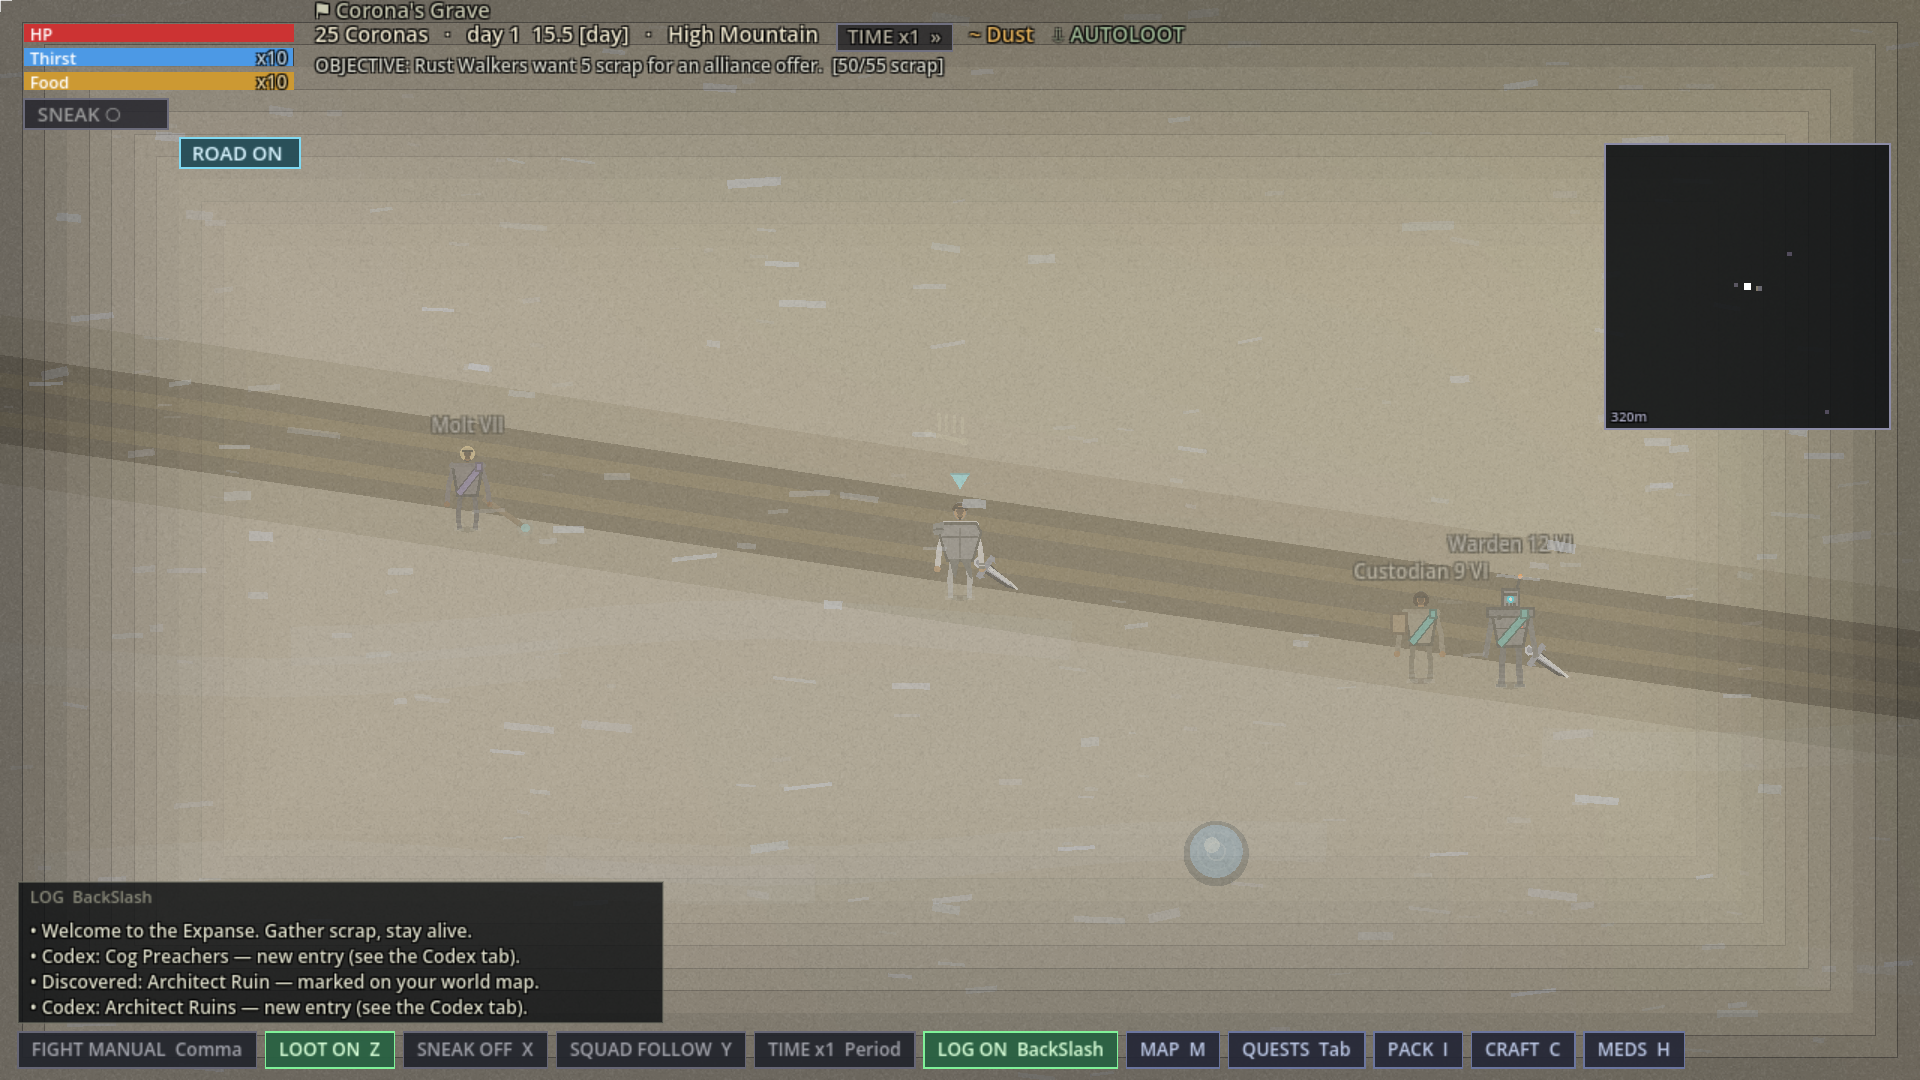
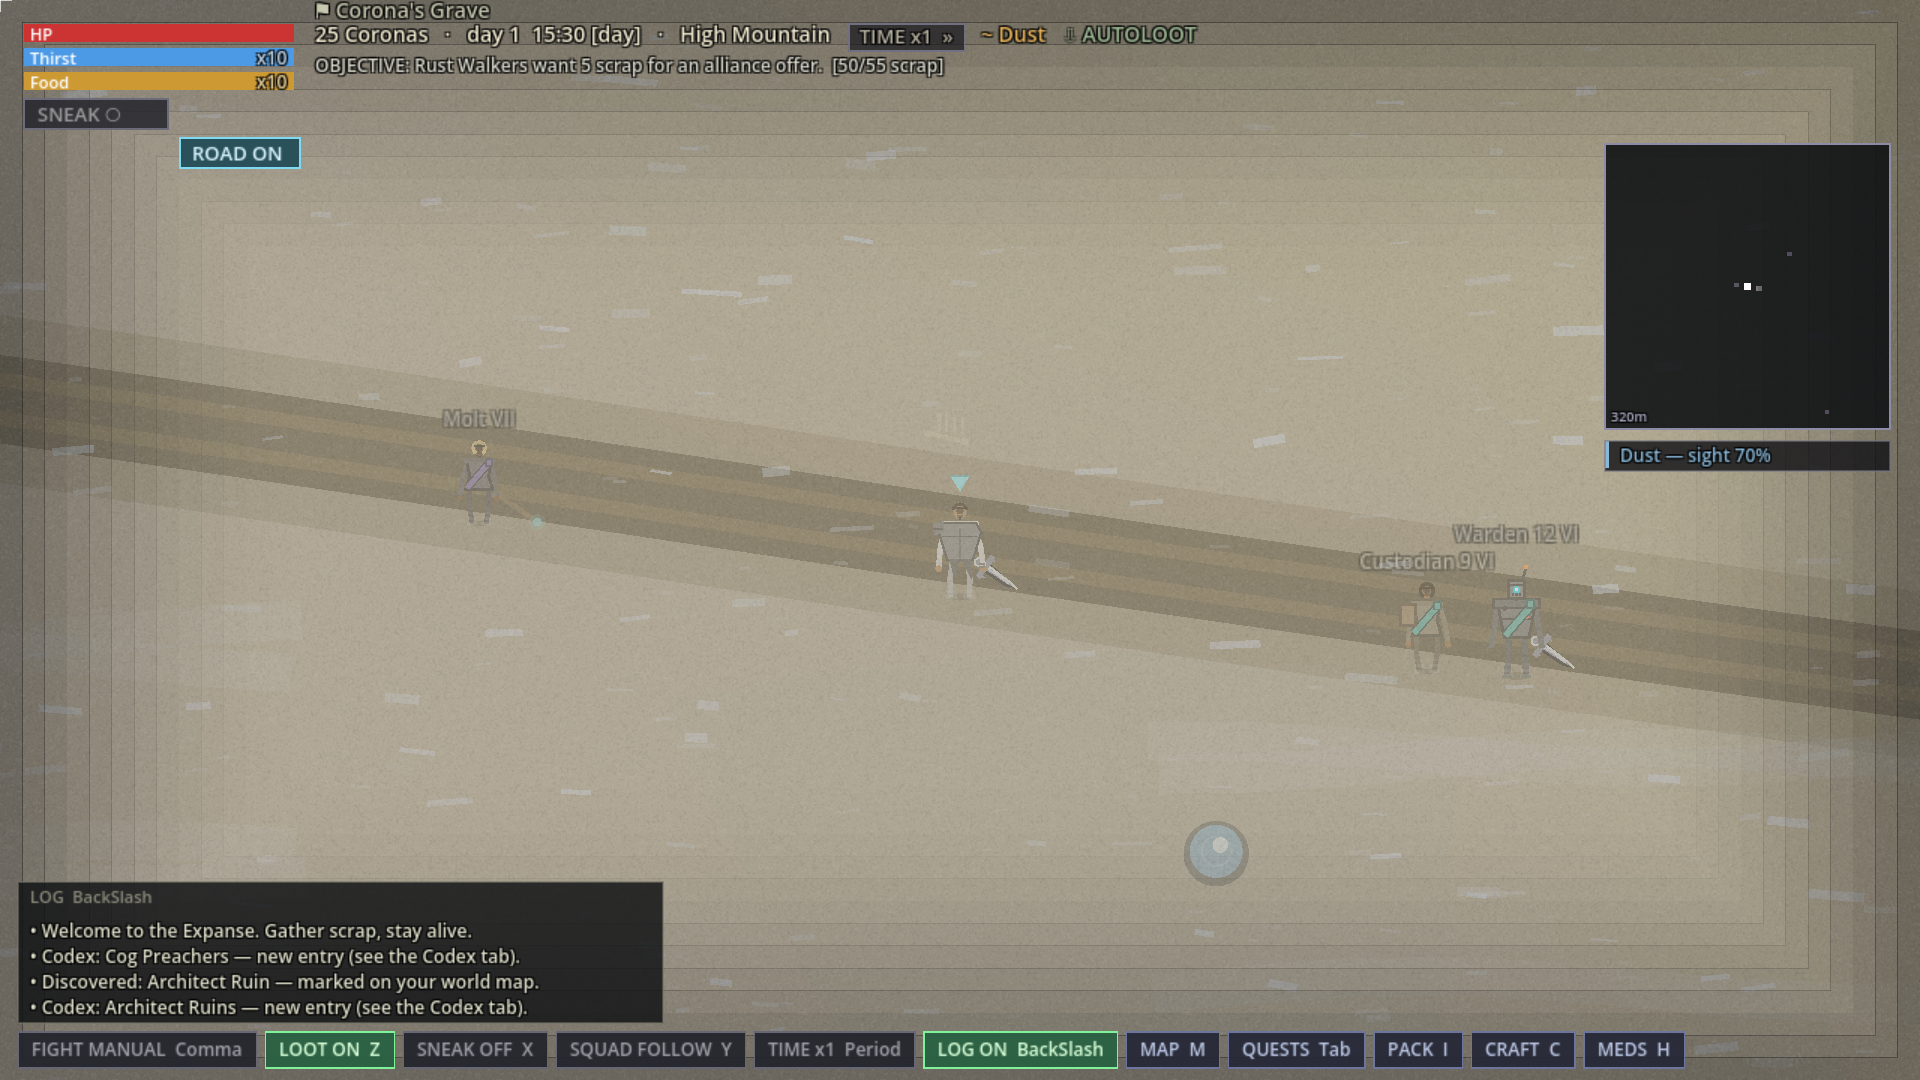
site: re-shoot the seven screenshots on the shipped head
The seven frames on the page predated the whole art run, so the page was
selling a game that no longer looks like that: 01 town 20.8% of pixels
changed against a re-render, 05 combat 31.1%, 07 codex 25.3%, 04
interior 15.6%. Replaced like-for-like with the marketing frames from
the submodule at 3e311e7 — same scenes, same filenames, same 1920x1080,
so no HTML changes beyond the cache-buster, which goes 14 to 15 on the
image URLs it covers. Captions, copy, footer and the candidate frames
are untouched.

Claude-Session: https://claude.ai/code/session_018H1sn7GGjZwJmtfg9LhDNg

diff --git a/index.html b/index.html
@@ -246,7 +246,7 @@
 <section class="wrap" aria-labelledby="shots-h">
   <h2 id="shots-h">Screenshots</h2>
   <div class="shot-frame">
-    <img id="shot" src="screenshots/01.png?v=14" width="1920" height="1080"
+    <img id="shot" src="screenshots/01.png?v=15" width="1920" height="1080"
          alt="Gameplay screenshot from Eclipsis: The Shattered Expanse">
     <button class="navbtn prev" type="button" id="prev" aria-label="Previous screenshot">&#8249;</button>
     <button class="navbtn next" type="button" id="next" aria-label="Next screenshot">&#8250;</button>
@@ -409,13 +409,13 @@
 <script>
 (function(){
   var shots = [
-    ["screenshots/01.png?v=14","Rust Haven at midday — a Rust Walker town inside its curtain wall. Roads run gate to gate, footpaths thread between the houses, and the townsfolk are out on them."],
-    ["screenshots/02.png?v=14","The same streets deep into the night. Lamps down the main road, lit windows, and a crowd you can only half see — night is genuinely dark, and what you can see depends on what you are carrying."],
-    ["screenshots/03.png?v=14","A dust storm on the highway through the Corona’s Grave highlands: the tint on everything, the haze banked across it and the wind-blown streaks. The travellers strung out along the road were already walking it — and an Architect ruin has just been found and marked."],
-    ["screenshots/04.png?v=14","Inside an Automaton taproom in Machine Nexus — the keeper at his counter, three drinkers, stools, crates and shelves, and the stairwell in the corner that runs up to the roof and down to the cellar. The roof simply fades as you step under it — no loading screen, no separate map."],
-    ["screenshots/05.png?v=14","A street brawl in Rust Haven, mid-swing: damage in the air, blood and dropped packs on the ground, three Dust Reavers still on their feet — and the log keeping score of the other three: “You kill a Dust Reaver. Their people won’t forget.”"],
-    ["screenshots/06.png?v=14","The whole Expanse laid flat — biome ground, faction territories in their own colours, their named capitals, the named lands between them, and a compass rose."],
-    ["screenshots/07.png?v=14","Six days of world, written down: a famine in the Cinder Dominion, a war between the Blacklight Syndicate and the Automatons, coffers, border clashes, the world’s mood — and “Frost on the salt flats at noon. The old hands have stopped calling it weather.”"]
+    ["screenshots/01.png?v=15","Rust Haven at midday — a Rust Walker town inside its curtain wall. Roads run gate to gate, footpaths thread between the houses, and the townsfolk are out on them."],
+    ["screenshots/02.png?v=15","The same streets deep into the night. Lamps down the main road, lit windows, and a crowd you can only half see — night is genuinely dark, and what you can see depends on what you are carrying."],
+    ["screenshots/03.png?v=15","A dust storm on the highway through the Corona’s Grave highlands: the tint on everything, the haze banked across it and the wind-blown streaks. The travellers strung out along the road were already walking it — and an Architect ruin has just been found and marked."],
+    ["screenshots/04.png?v=15","Inside an Automaton taproom in Machine Nexus — the keeper at his counter, three drinkers, stools, crates and shelves, and the stairwell in the corner that runs up to the roof and down to the cellar. The roof simply fades as you step under it — no loading screen, no separate map."],
+    ["screenshots/05.png?v=15","A street brawl in Rust Haven, mid-swing: damage in the air, blood and dropped packs on the ground, three Dust Reavers still on their feet — and the log keeping score of the other three: “You kill a Dust Reaver. Their people won’t forget.”"],
+    ["screenshots/06.png?v=15","The whole Expanse laid flat — biome ground, faction territories in their own colours, their named capitals, the named lands between them, and a compass rose."],
+    ["screenshots/07.png?v=15","Six days of world, written down: a famine in the Cinder Dominion, a war between the Blacklight Syndicate and the Automatons, coffers, border clashes, the world’s mood — and “Frost on the salt flats at noon. The old hands have stopped calling it weather.”"]
   ];
   var img = document.getElementById('shot'),
       cap = document.getElementById('shot-cap'),
